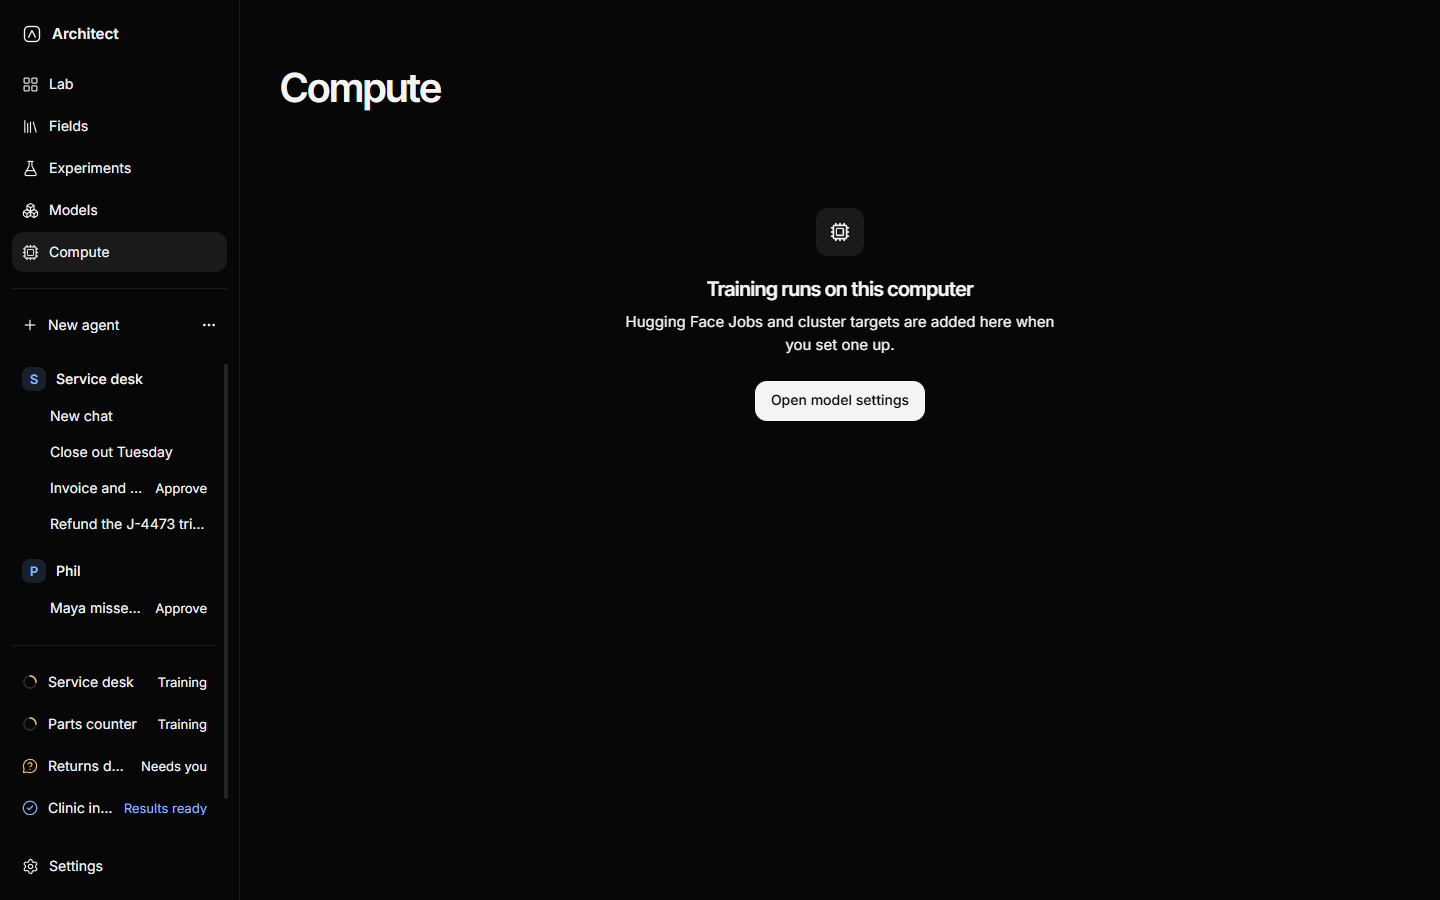
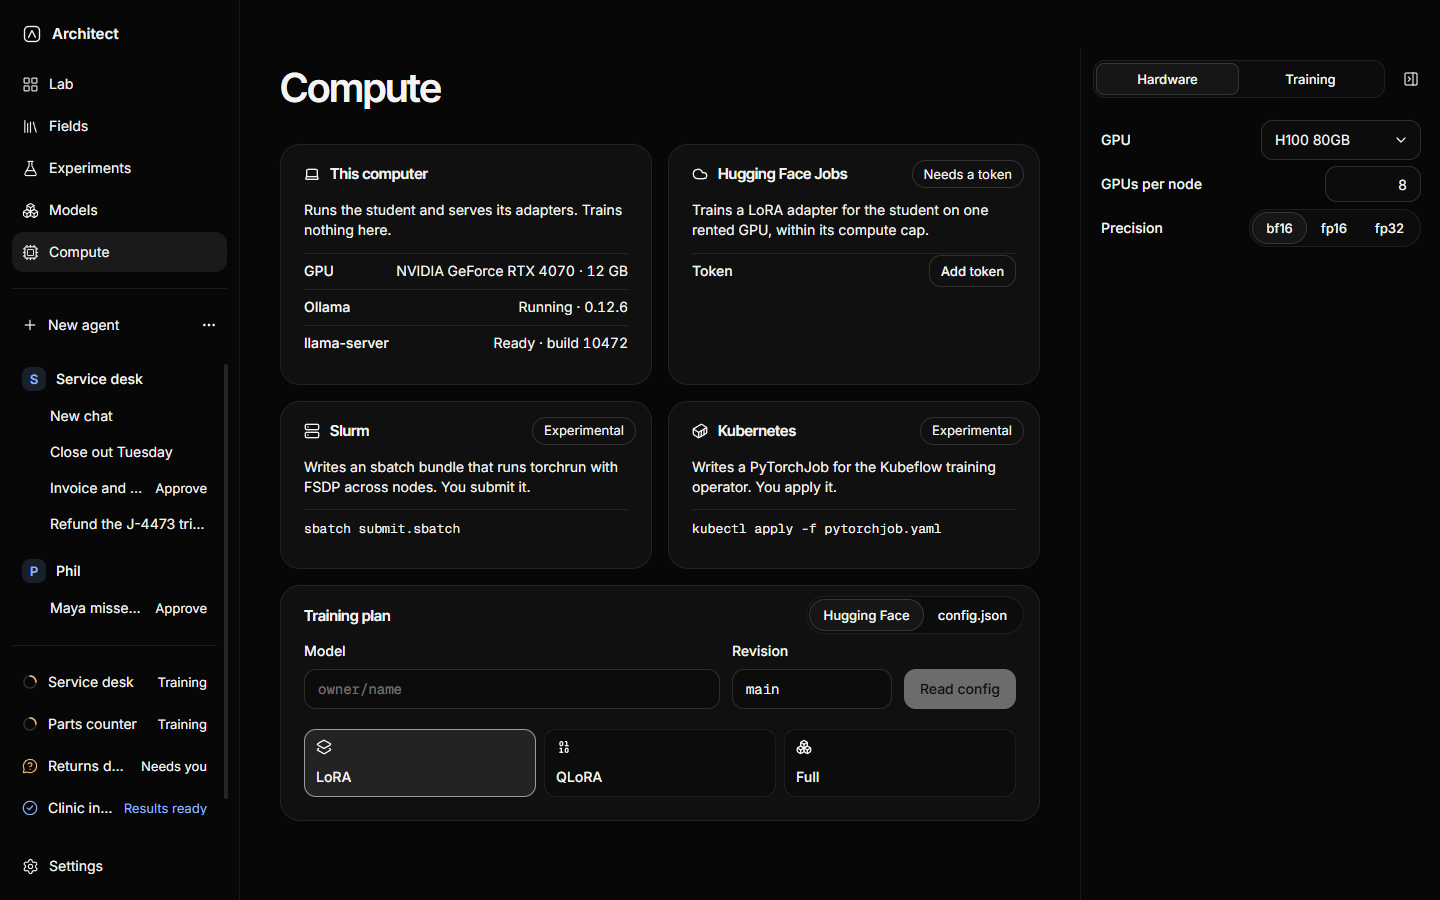
test(desktop): cover Compute on the real engine and the fake Hub, with its screenshots

diff --git a/apps/desktop/e2e/compute.spec.ts b/apps/desktop/e2e/compute.spec.ts
@@ -1,0 +1,229 @@
+import { existsSync, readFileSync } from 'node:fs';
+import { mkdir, mkdtemp, readFile, rm, writeFile } from 'node:fs/promises';
+import { tmpdir } from 'node:os';
+import { join } from 'node:path';
+import { fileURLToPath } from 'node:url';
+import { expect, test, type Locator, type Page } from '@playwright/test';
+import { FAKE_HUB_TOKEN, startFakeHub, type FakeHub } from '@architect/engine/testing';
+import { planTraining } from '@architect/engine/training-plan';
+import {
+  CLUSTER_TEMPLATE_WORDING,
+  TrainBundleSchema,
+  type ModelConfig,
+  type TrainMethod,
+} from '@architect/shared';
+import { goTo, launchApp, settle, updateSettings, type LaunchedApp } from './app';
+import { GPU_12GB, LLAMA_SERVER_READY, OLLAMA_READY, stubEngine } from './fixtures';
+
+/*
+ * The Compute place on the real engine: its targets, a training plan sized from a stand-in
+ * config.json served by the fake Hub (never the real one), a config it refuses, and Slurm and
+ * Kubernetes bundles written into folders the dialog hands it. Nothing is submitted, no model is
+ * loaded and no GPU is used; this computer's runtimes are stand-ins.
+ */
+
+const OUT_DIR = fileURLToPath(new URL('../../../docs/screenshots/', import.meta.url));
+const CONFIGS = fileURLToPath(
+  new URL('../../../packages/engine/test/fixtures/model-configs/', import.meta.url),
+);
+const SIZE = { width: 1440, height: 900 };
+const REPO = 'lab/moe-235b';
+const MOE = JSON.parse(readFileSync(join(CONFIGS, 'moe-235b.json'), 'utf8')) as ModelConfig;
+
+test.describe.configure({ mode: 'serial' });
+
+let hub: FakeHub;
+let commit: string;
+let launched: LaunchedApp;
+let page: Page;
+let folders: string;
+
+test.beforeAll(async () => {
+  hub = await startFakeHub();
+  hub.repos.set(REPO, { private: false, commits: [] });
+  commit = hub.commit(REPO, { 'config.json': Buffer.from(JSON.stringify(MOE)) });
+  folders = await mkdtemp(join(tmpdir(), 'architect-e2e-compute-'));
+  launched = await launchApp({ env: { HF_ENDPOINT: hub.url, HF_TOKEN: FAKE_HUB_TOKEN } });
+  page = launched.page;
+  const visible = await launched.app.evaluate(({ BrowserWindow }, size) => {
+    const [main] = BrowserWindow.getAllWindows();
+    if (!main) throw new Error('No window');
+    main.setContentSize(size.width, size.height);
+    return main.isVisible();
+  }, SIZE);
+  expect(visible).toBe(false);
+  await mkdir(OUT_DIR, { recursive: true });
+  await updateSettings(page, { onboarded: true });
+  // This computer's GPU and runtimes as stand-ins: no nvidia-smi, no Ollama of the developer's.
+  await stubEngine(launched.app, {
+    'connections:detectLocal': { ...OLLAMA_READY, gpu: GPU_12GB },
+    'connections:llamaServer': LLAMA_SERVER_READY,
+  });
+  // What the first screen read before the stand-ins went in is forgotten.
+  await page.reload();
+  await page.waitForLoadState('domcontentloaded');
+});
+
+test.afterAll(async () => {
+  await launched?.close();
+  await hub?.close();
+  await rm(folders, { recursive: true, force: true });
+});
+
+/** The next file dialog chooses this path. */
+function picks(path: string): Promise<void> {
+  return launched.app.evaluate(({ dialog }, chosen) => {
+    dialog.showOpenDialog = async () => ({ canceled: false, filePaths: [chosen] });
+  }, path);
+}
+
+async function capture(file: string, top?: Locator): Promise<void> {
+  await page.mouse.move(0, 0);
+  if (top) await top.evaluate((element) => element.scrollIntoView({ block: 'start' }));
+  await settle(page);
+  await page.screenshot({ path: join(OUT_DIR, file), animations: 'disabled', timeout: 15_000 });
+}
+
+const region = (name: string) => page.getByRole('region', { name, exact: true });
+const settings = () => page.getByRole('complementary', { name: 'Plan settings' });
+
+/** The fewest GPUs the engine sizes for the stand-in, with the screen's default settings. */
+function gpusFor(method: TrainMethod, seqLen = 4096): number {
+  const plan = planTraining(MOE, {
+    model: { repo: REPO, revision: commit },
+    method,
+    precision: 'bf16',
+    gpu: { name: 'H100 80GB', memoryGb: 80 },
+    seqLen,
+    microBatch: 1,
+    gpusPerNode: 8,
+    loraRank: 16,
+  });
+  if (!plan.fit) throw new Error('The stand-in should fit.');
+  return plan.fit.gpus;
+}
+
+test('shows each target with what it can do, the clusters labeled experimental', async () => {
+  await goTo(page, '/compute');
+  const computer = region('This computer');
+  await expect(computer).toContainText('NVIDIA GeForce RTX 4070 · 12 GB');
+  await expect(computer).toContainText('Running · 0.12.6');
+  await expect(computer).toContainText('Ready · build 10472');
+  await expect(region('Hugging Face Jobs')).toContainText('Ready');
+  await expect(region('Hugging Face Jobs')).toContainText('HF_TOKEN');
+  for (const name of ['Slurm', 'Kubernetes']) {
+    await expect(region(name).getByText('Experimental')).toBeVisible();
+  }
+  await expect(region('Slurm')).toContainText('sbatch submit.sbatch');
+  await expect(region('Kubernetes')).toContainText('kubectl apply -f pytorchjob.yaml');
+  await capture('compute-dark.png');
+});
+
+test('plans a mixture of experts from its config.json on the Hub, every term with its arithmetic', async () => {
+  const card = region('Training plan');
+  await card.getByLabel('Model').fill(REPO);
+  await card.getByRole('button', { name: 'Read config' }).click();
+
+  const breakdown = region('Memory on each GPU');
+  await expect(breakdown.getByText('Estimate')).toBeVisible();
+  await expect(card).toContainText(`${REPO} @ ${commit.slice(0, 12)}`);
+  await expect(card).toContainText('128');
+  const lora = gpusFor('lora');
+  await expect(breakdown.getByText(String(lora), { exact: true }).first()).toBeVisible();
+  const terms = breakdown.getByRole('table', { name: 'Memory terms' });
+  for (const label of [
+    'Resident weights, all 128 experts in every expert layer, frozen',
+    'LoRA adapter on attention and every MLP or expert projection, in fp32',
+    "The adapter's gradients, in fp32",
+    "Adam's two fp32 moments for the adapter",
+    'Activations for one micro-batch (approximate)',
+    'CUDA context, cuBLAS workspace and NCCL buffers',
+    'Usable per GPU',
+  ]) {
+    await expect(terms.getByText(label, { exact: true })).toBeVisible();
+  }
+  await expect(terms).toContainText("FSDP's peak");
+  await expect(terms).toContainText('80 GB × (1 − 0.1) = 72.0 GB usable on each H100 80GB');
+
+  // Only config.json was read, at the commit its revision resolved to.
+  const files = hub.requests.filter((request) => request.path.includes('/resolve/'));
+  expect(files.map((request) => request.path)).toEqual([`/${REPO}/resolve/${commit}/config.json`]);
+
+  // QLoRA, and a longer sequence in the inspector, are sized again at once.
+  await card.getByRole('radio', { name: 'QLoRA' }).click();
+  await expect(terms).toContainText('NF4 with double quantization');
+  await settings().getByRole('tab', { name: 'Training' }).click();
+  await settings().getByLabel('Tokens per sequence').fill('8192');
+  await expect(terms).toContainText('b·s·h·2·L = 1·8192·4096·2·94');
+  await expect(
+    breakdown.getByText(String(gpusFor('qlora', 8192)), { exact: true }).first(),
+  ).toBeVisible();
+  await settings().getByLabel('Tokens per sequence').fill('4096');
+  await card.getByRole('radio', { name: 'LoRA', exact: true }).click();
+  await expect(terms).not.toContainText('NF4 with double quantization');
+  await settings().getByRole('tab', { name: 'Hardware' }).click();
+  await capture('compute-plan-dark.png', breakdown);
+});
+
+test("says plainly why a config can't be sized", async () => {
+  const mamba = join(folders, 'mamba-config.json');
+  await writeFile(mamba, JSON.stringify({ ...MOE, model_type: 'mamba' }));
+  const card = region('Training plan');
+  await card.getByRole('radio', { name: 'config.json' }).click();
+  await picks(mamba);
+  await card.getByRole('button', { name: 'Choose config.json' }).click();
+  const refusal = region('Memory on each GPU');
+  await expect(refusal.getByText("Can't size this model")).toBeVisible();
+  await expect(refusal).toContainText("A mamba model isn't a decoder made of attention");
+  await expect(region('Bundle').getByRole('button', { name: 'Write bundle' })).toBeDisabled();
+
+  await card.getByRole('radio', { name: 'Hugging Face' }).click();
+  await card.getByRole('button', { name: 'Read config' }).click();
+  await expect(region('Memory on each GPU').getByText('Estimate')).toBeVisible();
+});
+
+test('writes Slurm and Kubernetes bundles from a field export and shows the commands', async () => {
+  const exported = join(folders, 'tutor-export');
+  await mkdir(join(exported, 'sft'), { recursive: true });
+  await writeFile(join(exported, 'MANIFEST.json'), JSON.stringify({ counts: {} }));
+  await writeFile(
+    join(exported, 'sft', 'demonstrations.jsonl'),
+    `${JSON.stringify({ messages: [{ role: 'assistant', content: 'ANSWER: 12' }] })}\n`,
+  );
+  const out = join(folders, 'bundles');
+  await mkdir(out);
+
+  const bundle = region('Bundle');
+  const write = bundle.getByRole('button', { name: 'Write bundle' });
+  await expect(write).toBeDisabled();
+  await expect(bundle).toContainText('Choose a field export.');
+  await picks(exported);
+  await bundle.getByRole('button', { name: 'Choose' }).first().click();
+  await picks(out);
+  await bundle.getByRole('button', { name: 'Choose' }).nth(1).click();
+  await write.click();
+
+  const submit = bundle.getByRole('region', { name: 'Submit command' });
+  await expect(submit).toContainText('sbatch submit.sbatch');
+  await expect(bundle).toContainText(CLUSTER_TEMPLATE_WORDING);
+  const slurm = join(out, 'moe-235b-slurm');
+  const written = TrainBundleSchema.parse(
+    JSON.parse(await readFile(join(slurm, 'bundle.json'), 'utf8')),
+  );
+  expect(written.base_model).toEqual({ repo: REPO, revision: commit });
+  expect(written.target).toBe('slurm');
+  expect(written.nodes * written.gpus_per_node).toBe(gpusFor('lora'));
+  expect(existsSync(join(slurm, 'data', 'demonstrations.jsonl'))).toBe(true);
+  await capture('compute-bundle-dark.png', bundle);
+
+  await bundle.getByRole('radio', { name: 'Kubernetes' }).click();
+  await expect(submit).toBeHidden();
+  await write.click();
+  await expect(bundle.getByRole('region', { name: 'Submit command' })).toContainText(
+    'kubectl apply -f pytorchjob.yaml',
+  );
+  expect(existsSync(join(out, 'moe-235b-kubernetes', 'pytorchjob.yaml'))).toBe(true);
+  // The Hub heard of config.json and nothing else: no job, no upload.
+  expect(hub.jobs.size).toBe(0);
+  expect(hub.uploads).toEqual([]);
+});

diff --git a/apps/desktop/e2e/lab.spec.ts b/apps/desktop/e2e/lab.spec.ts
@@ -171,7 +171,7 @@ test('leads to each place from the sidebar and the command palette', async () =>
   await capture('places-models-dark.png');
 
   await places().getByRole('button', { name: 'Compute' }).click();
-  await expect(page.getByRole('heading', { name: 'Training runs on this computer' })).toBeVisible();
+  await expect(page.getByRole('region', { name: 'Training plan' })).toBeVisible();
   await capture('places-compute-dark.png');
 
   await page.keyboard.press(process.platform === 'darwin' ? 'Meta+k' : 'Control+k');
